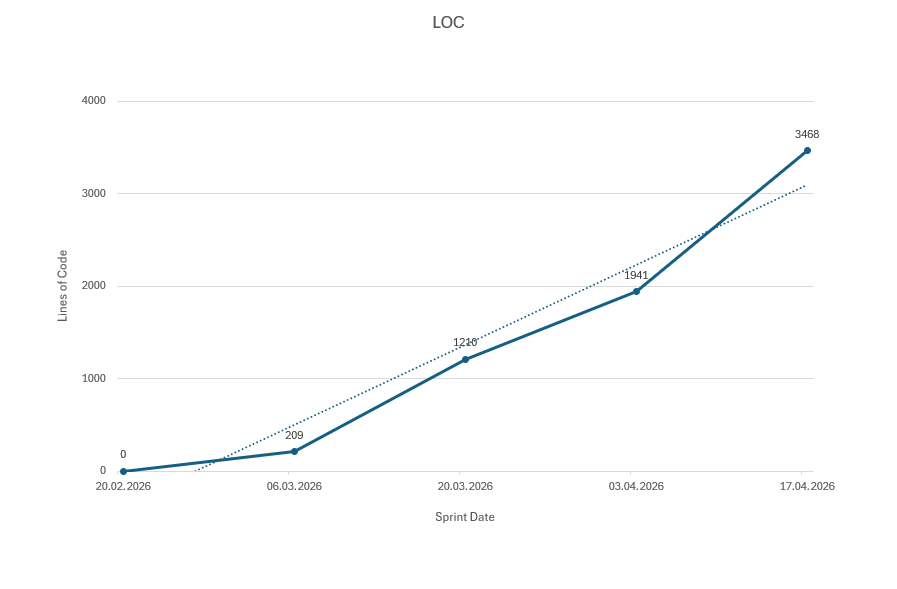
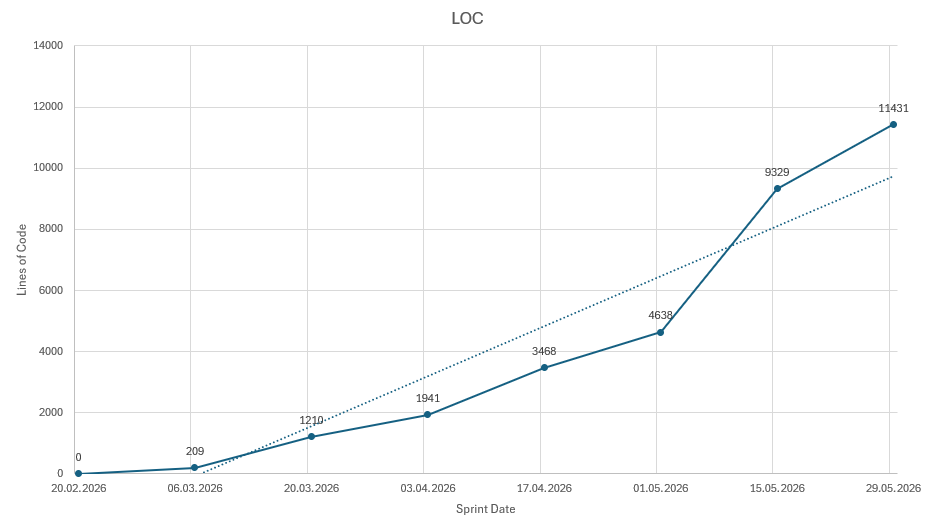
add updated code metric

diff --git a/Assets/Scripts/WorldGrid.cs b/Assets/Scripts/WorldGrid.cs
@@ -595,23 +595,6 @@ namespace GlowCore.World
             Debug.Log(sb.ToString());
         }
 
-        // private void ClearTreesInGrid()
-        // {
-        //     for (int x = 0; x < m_gridSize; x++)
-        //     {
-        //         for (int z = 0; z < m_gridSize; z++)
-        //         {
-        //             if (m_tiles[x, z] == null || !m_tiles[x, z].TryGetComponent(out Node _))
-        //                 continue;
-        //
-        //             Destroy(m_tiles[x, z].gameObject);
-        //             m_tiles[x, z] = null;
-        //         }
-        //     }
-        //
-        //     m_totalTreeCount = 0;
-        // }
-
         private GameObject PickRandomNodePrefab()
         {
             if (m_spawnableNodes == null || m_spawnableNodes.Length == 0)
